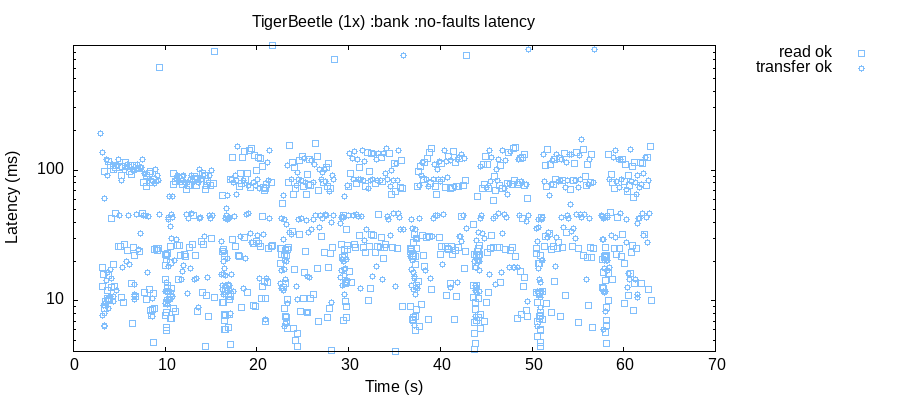
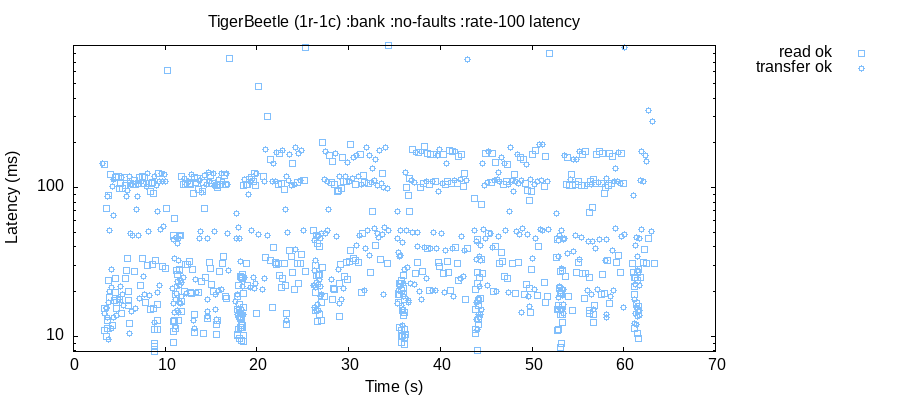
increase timeout, update readme w/observations

Changed region(s): [[0.0311, 0.36, 0.7467, 0.87], [0.2178, 0.03, 0.6533, 0.09]]

diff --git a/README.md b/README.md
@@ -94,17 +94,19 @@ TigerBeetle [is designed](https://tigerbeetle.com/index.html#home_safety) for [s
 
 We can now run a straightforward relatively low rate test end-to-end.
 
-Here's one replica with one client and no faults:
+### Here's one replica with one client and no faults:
 
 ![1x1 no-faults latency raw](doc/images/1x1-no-faults-latency-raw.png)
 
-Increasing to 3 replicas and 3 clients periodically causes timeouts:
+### Increasing to 3 replicas and 8 clients shows a clear latency wave pattern:
 
-![3x3 no-faults latency raw](doc/images/3x3-no-faults-latency-raw.png)
+![3x8 no-faults latency raw](doc/images/3X8-no-faults-latency-raw.png)
 
-And in both cases the latency distribution is *very* patterned.  Maybe it means something? 🤔
+Doing a range of different replica and client counts shows the latency distribution is *very* patterned.  Maybe it means something? 🤔
 
-### So we'll take a pause and check back when either we learn something new about the timeout behavior, or TigerBeetle development progresses...
+And (total # of operations / # waves) is **always** ~ 128! 🤯
+
+### So we'll take a pause and check back when either we learn something new about the latency behavior, or TigerBeetle development progresses...
 
 ----
 
